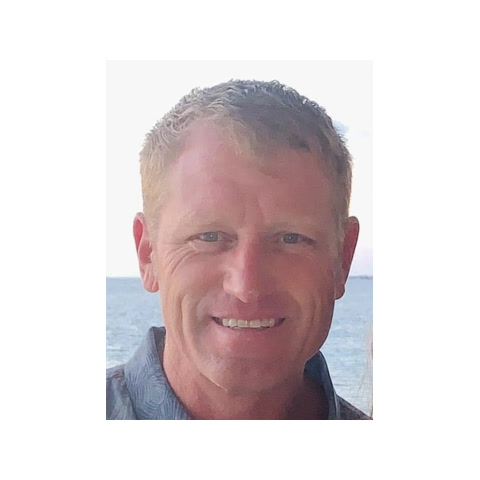
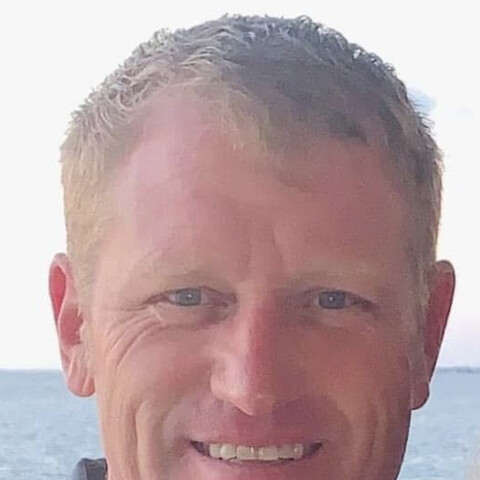
Fix home hero crop and unify coach thumbnail fill
Add a 16:9 landscape vault-action hero image so the home card no longer
mangles a tall portrait, and rebuild Dean’s team thumb as a filled square
face crop with object-fit: cover so all coaches match.

diff --git a/src/styles/global.css b/src/styles/global.css
@@ -650,7 +650,7 @@ p {
   overflow: hidden;
   border-radius: 12px;
   aspect-ratio: 1 / 1;
-  background: #fff;
+  background: #e8eef5;
   display: flex;
   align-items: center;
   justify-content: center;
@@ -663,7 +663,7 @@ p {
   overflow: hidden;
   border-radius: 12px;
   aspect-ratio: 1 / 1;
-  background: #fff;
+  background: #e8eef5;
   display: flex;
   align-items: center;
   justify-content: center;
@@ -673,10 +673,9 @@ p {
 .coach-thumb img {
   width: 100%;
   height: 100%;
-  object-fit: contain;
+  object-fit: cover;
   object-position: center center;
   display: block;
-  background: #fff;
 }
 
 /* Coach detail hero media */
@@ -899,11 +898,16 @@ p {
 
 .hero-action-shot {
   width: 100%;
-  max-height: 180px;
+  aspect-ratio: 16 / 9;
+  height: auto;
+  max-height: none;
   object-fit: cover;
+  object-position: center center;
+  display: block;
   border-radius: 12px;
   margin-bottom: 1rem;
   border: 1px solid rgba(255, 255, 255, 0.18);
+  background: rgba(0, 0, 0, 0.25);
 }
 
 /* Ask Maya floating widget */
